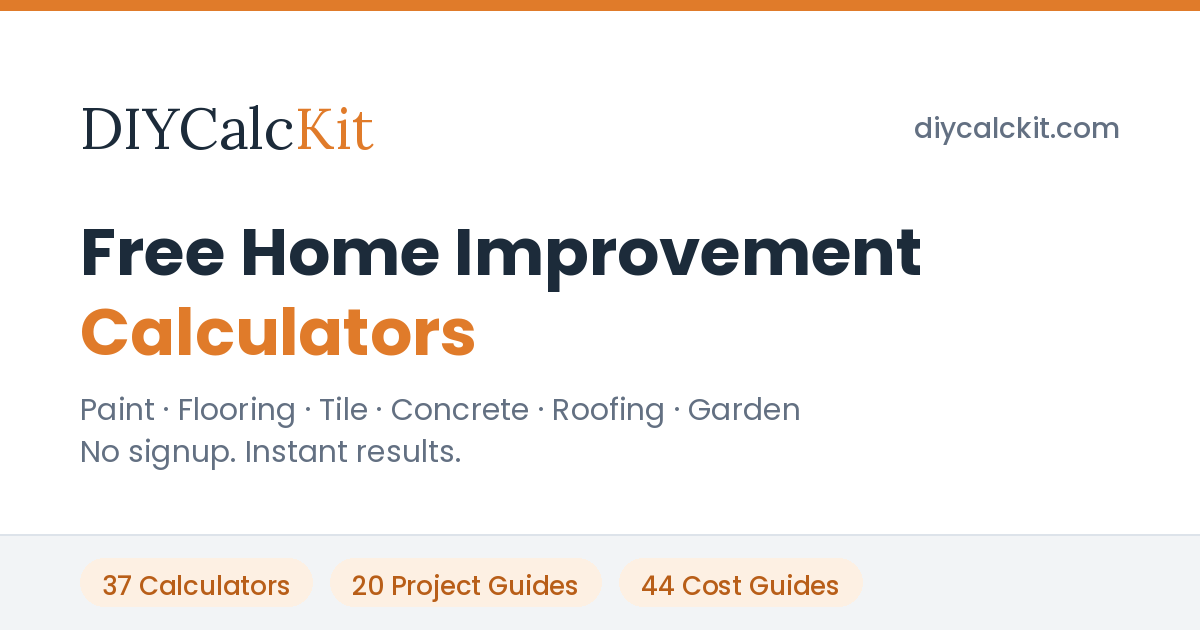
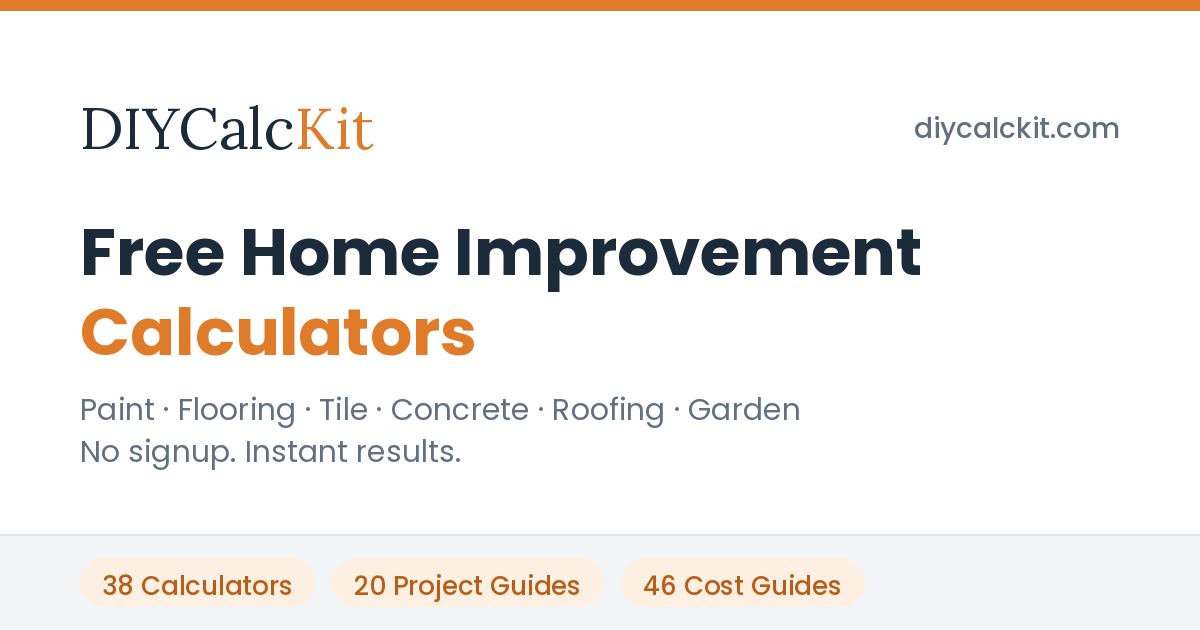
handover.md + og 이미지 갱신: 2026-08-31 세션 - 계산기 헤드 키워드 전 카테고리 포화 확인, 신규 3건(board&batten 계산기/차고 클러스터 개시/카펫패드), 판단형 롱테일 후보 선정 기준 확립

Changed region(s): [[0.2775, 0.9048, 0.4933, 0.9651], [0.5242, 0.9048, 0.7092, 0.9651], [0.0925, 0.9048, 0.2467, 0.9651]]

diff --git a/handover.md b/handover.md
@@ -1046,3 +1046,87 @@ blog/index 카드 44개, 신규글 포함 확인).
 ## 현재 상태 (2026-08-24 세션 종료)
 - 툴 37 / 블로그 **44** / 프로젝트 20 / 허브 3 / 루트 4 = **108개 파일** (sitemap 108 일치)
 - 커밋: `51dc491`(신규 판단형 롱테일 1건)
+
+---
+
+# 2026-08-31 세션 (사용자 요청: 신규 콘텐츠 확장 — GSC 자료 없이 키워드 탐색 중심)
+
+## 이번 세션의 가장 중요한 발견: 계산기 헤드 키워드는 카테고리 불문 전부 포화
+
+사용자 지시대로 GSC 밖에서 폭넓게 키워드를 탐색했음. 계산기 신규 후보를 카테고리별로 조사한 결과,
+**어느 영역이든 전용 계산기가 이미 7~8개씩 존재**했고 그중에는 그 주제만 다루는 전용 도메인도 있었음.
+
+| 후보 | 클러스터 | 경쟁 강도 | 판정 |
+|---|---|---|---|
+| recessed lighting calculator | 신규(전기) | 전용 도메인 포함 7개+ (recessedlight-calculator.com 등) | 제외 |
+| paver / patio calculator | 신규(하드스케이프) | 8개+ (Inch Calculator, Omni, CalcSummit…) | 제외 |
+| fence post concrete calculator | 기존(펜스+콘크리트) | 8개+ (Omni, Inch, Bob Vila, Angi…) | 제외 |
+| board & batten spacing | 기존(트림) | 전용 계산기 3~4 + 블로거 튜토리얼 다수 | **채택** |
+| peel&stick vs 전통 벽지 | 기존(벽지 8p) | 판매자 편향 다수 | 보류(아래 사유) |
+| carpet pad 밀도 | 기존(카펫 4p) | 판매점 블로그 다수 | **채택** |
+| garage floor coating | **신규(차고)** | 시공업체 글이 거의 전부, 중립 소스 희소 | **채택** |
+
+**결론적 판단**: 계산기를 헤드 키워드로 새로 세우는 전략은 이제 유효하지 않음.
+대신 (a) 계산기는 **경쟁 도구에 없는 출력**을 넣어 차별화하고,
+(b) 판단형 글은 **판매자·시공업체 편향이 지배해서 중립 콘텐츠가 비어 있는 주제**를 고르는 쪽이 맞음.
+후자는 mastic vs thinset(08-24)에서 이미 성립을 확인한 패턴이고, 이번 차고 바닥 주제가 같은 구조였음.
+
+## 발행한 3건
+
+### 1) `tools/board-and-batten-calculator.html` — 트림 클러스터 2번째 계산기
+경쟁 회피 장치의 핵심: **경쟁 계산기는 배튼 개수와 간격만 출력하는데, 여기서는 좌측 코너 기준
+각 배튼 중심의 누적 마킹 위치를 1/16인치 단위로 전부 출력함.** 실제로 벽에 표시하려면 간격이 아니라
+누적 위치가 필요한데 그걸 주는 도구가 없었음. 그 외 명목 vs 실제 치수표(1x4=3.5in, 배튼 9개면 4.5in 오차 누적),
+스톡 보드 1장당 수율 기반 보드 개수, 커스텀 폭 입력, 상단 레일 별도 계산.
+- 공식: `N = round((wallW + targetGap) / (battenW + targetGap))`, `gap = (wallW - N*battenW)/(N-1)`
+- jsdom 7개 시나리오 검증. **마지막 배튼 우측 끝 = 벽 너비 정확히 일치**를 전 케이스 확인.
+  극단값(벽 10in / 배튼높이 90in > 스톡 96in)과 입력 누락 alert 경로까지 통과.
+
+### 2) `blog/garage-floor-coating-epoxy-vs-polyaspartic.html` — **신규 클러스터 개시(차고)**
+검색 결과가 Garage Force / Garage Living / EnviroDek / Floortek / Concrete Refresh 등
+**시공업체 글로 거의 전부** 채워져 있고 전원 "폴리아스파틱 압승, DIY는 실패" 결론.
+경쟁 회피 장치: **제품 비교보다 슬래브 자가 진단 2종을 글 맨 앞에 배치**
+(플라스틱 시트 24~48h 수분 테스트, 물 흡수 테스트로 실러·오염 판별). 구성 자체가 판매자 글과 반대.
+그 외 hot tire pickup을 제품 결함이 아닌 접착/도막두께 문제로 설명, "1액형 에폭시 페인트=라텍스 아크릴"
+라벨 함정, 슬래브 마감별 커버리지 할증표(빗자루 10~15%, 스폴링 25~40%), square-footage-calculator 연동.
+
+### 3) `blog/carpet-pad-density-guide.html` — 카펫 클러스터 4→5
+경쟁 회피 장치: **밀도와 두께가 반대로 작용한다**는 것을 핵심 축으로 삼음(두꺼운 저밀도 패드가 최악).
+워런티의 **최소 밀도 + 최대 두께** 조항 — 판매점 글은 최소 밀도만 언급함. 계단/지하실 슬래브/롤링 체어
+3가지 예외를 별도 섹션으로.
+
+## 벽지 주제를 보류한 이유 (다음 세션에 재검토하지 말 것)
+`peel and stick vs traditional wallpaper`는 벽지 클러스터(8페이지)에 붙이면 좋아 보이지만,
+**기존 `blog/peel-and-stick-wallpaper-calculator.html`에 이미 "vs Traditional 커버리지·비용 비교표"와
+"깨끗하게 떨어지는가(플랫 페인트 불가, 신규 도장 30일 대기, 텍스처 벽 불가)" 섹션이 들어 있음.**
+신규 글의 주요 각도가 거의 전부 선점된 상태라 중복 위험이 컸음. 벽지 클러스터에 뭔가 추가하려면
+이 두 섹션과 겹치지 않는 각도를 먼저 찾아야 함.
+
+## 검증
+- 7-gram 자카드로 기존 108개 전 페이지 대조 → 신규 3건 모두 **3% 초과 쌍 0건**
+- 단어수: 계산기 1,077 / 차고 1,834 / 카펫패드 1,608
+- HTML 무결성 111/111, JSON-LD 305블록 100%, 죽은링크 0, sitemap 111 = 파일 111,
+  llms.txt 107 URL 죽은링크 0, node --check 통과
+- **계산기 38/38 jsdom 동작 정상**(신규 포함), 신규 3페이지 헤더/푸터/모바일내비/브레드크럼 각 1개,
+  tools grid 및 blog grid(46장)에 신규 항목 렌더 확인
+
+## 신규 발행 체크리스트 (이번에 전부 수행 — 다음에도 동일하게)
+nav.js TOOLS/BLOGS → tools/index.html(noscript + TOOLS_DATA) 또는 blog/index.html(noscript + BLOG_POSTS)
+→ sitemap.xml → llms.txt → **111개 전 페이지 정적 푸터의 Tools/Blog 최신 6개 재동기화**
+→ og-default.png pill 숫자 갱신(이번: 37/20/43 → 38/20/46)
+
+## 다음 세션 지침
+1. **구글 재크롤링 여부부터 확인**(08-24 시점까지 최종 크롤링 07-21에서 멈춰 있었음).
+   갱신 전이면 구조 변경 금지 원칙 유지.
+2. **신규 계산기를 만들 때는 "경쟁 도구에 없는 출력"이 무엇인지 먼저 정의할 것.**
+   헤드 키워드 경쟁으로는 이길 수 없다는 게 이번 조사의 결론.
+3. **판단형 롱테일 후보를 고르는 기준이 하나 확립됨**: 검색 결과 1페이지가 판매자·시공업체 글로
+   채워져 있으면 중립 콘텐츠의 빈자리다. mastic vs thinset, garage floor coating이 둘 다 이 패턴이었음.
+4. 차고 클러스터를 이번에 열었으므로 확장 여지 있음(차고 수납, 차고 단열, 차고문). 단 만들기 전
+   기존 파일 대조 + 7-gram 검증 필수.
+5. 미검토로 남긴 후보: 타일 트라월 노치 사이즈, 자갈 규격(#57 vs #411), faced vs unfaced 단열재.
+
+## 현재 상태 (2026-08-31 세션 종료)
+- 툴 **38** / 블로그 **46** / 프로젝트 20 / 허브 3 / 루트 4 = **111개 파일** (sitemap 111 일치)
+- 클러스터: 차고(garage) 신규 개시
+- 커밋: `e9d31cd`(신규 3건)
